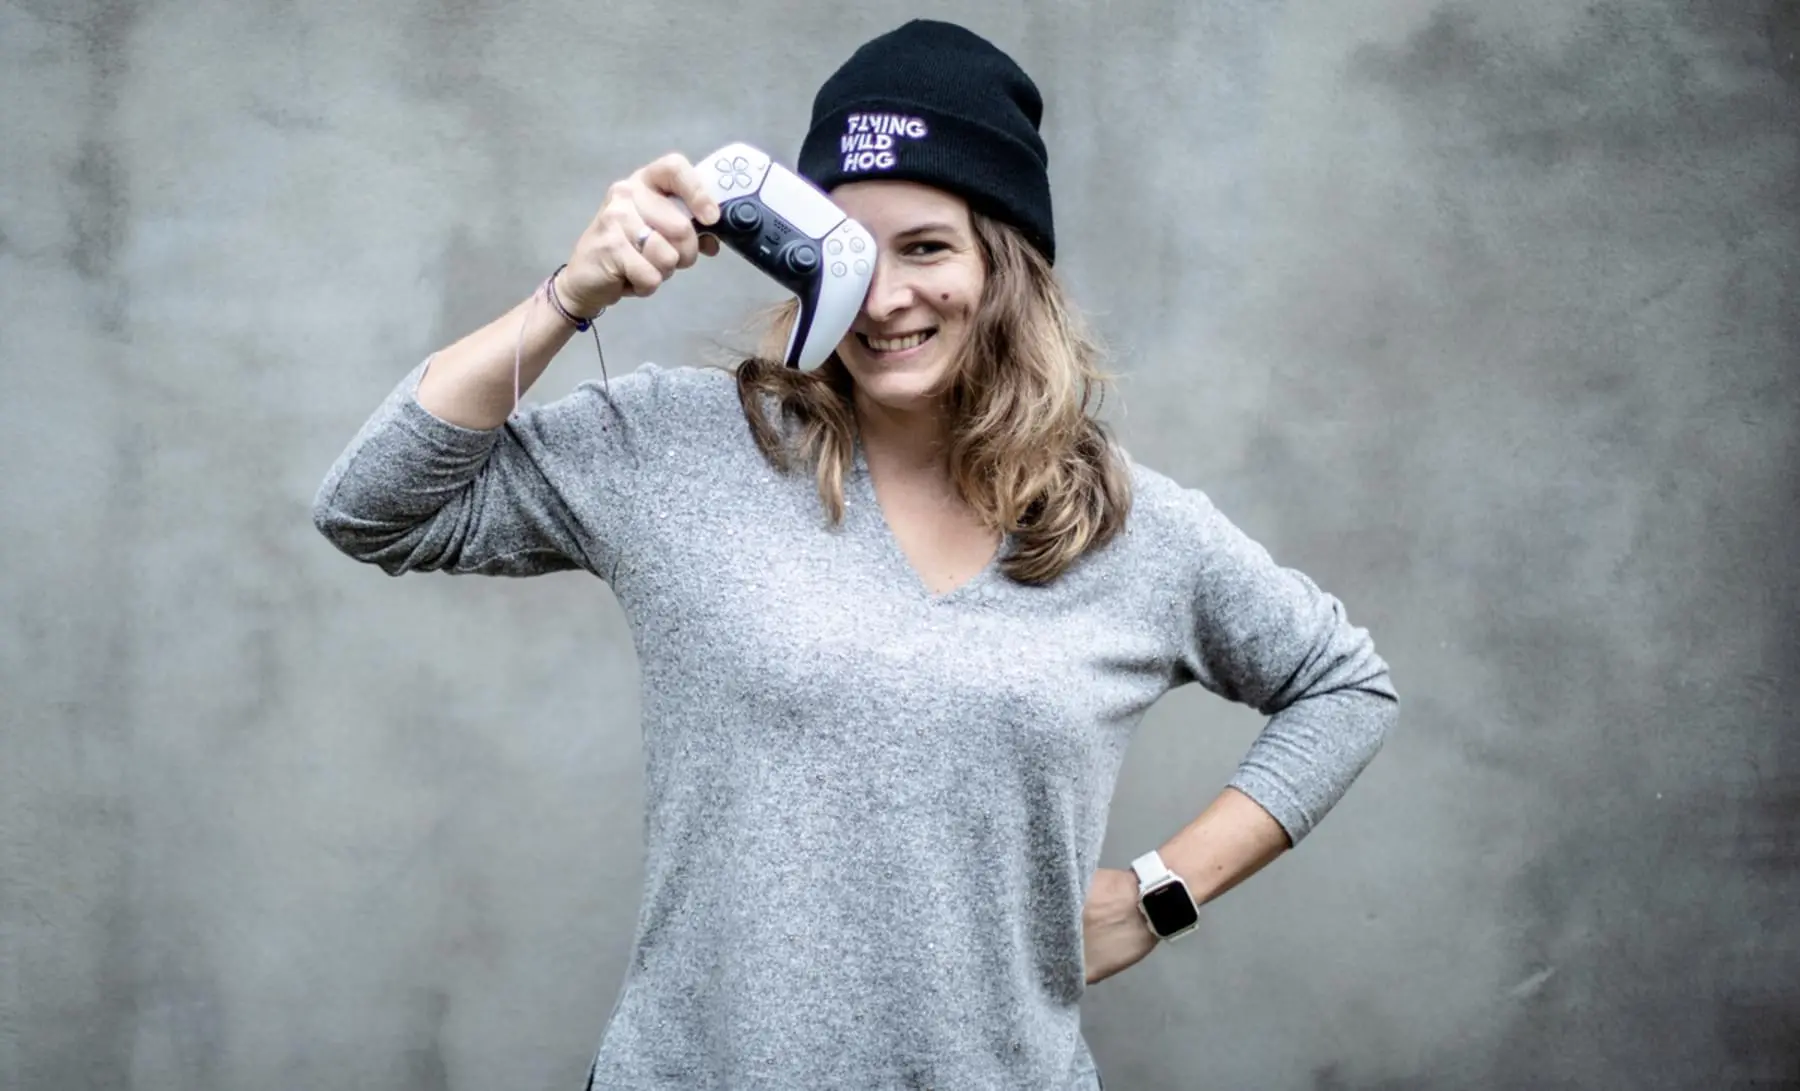
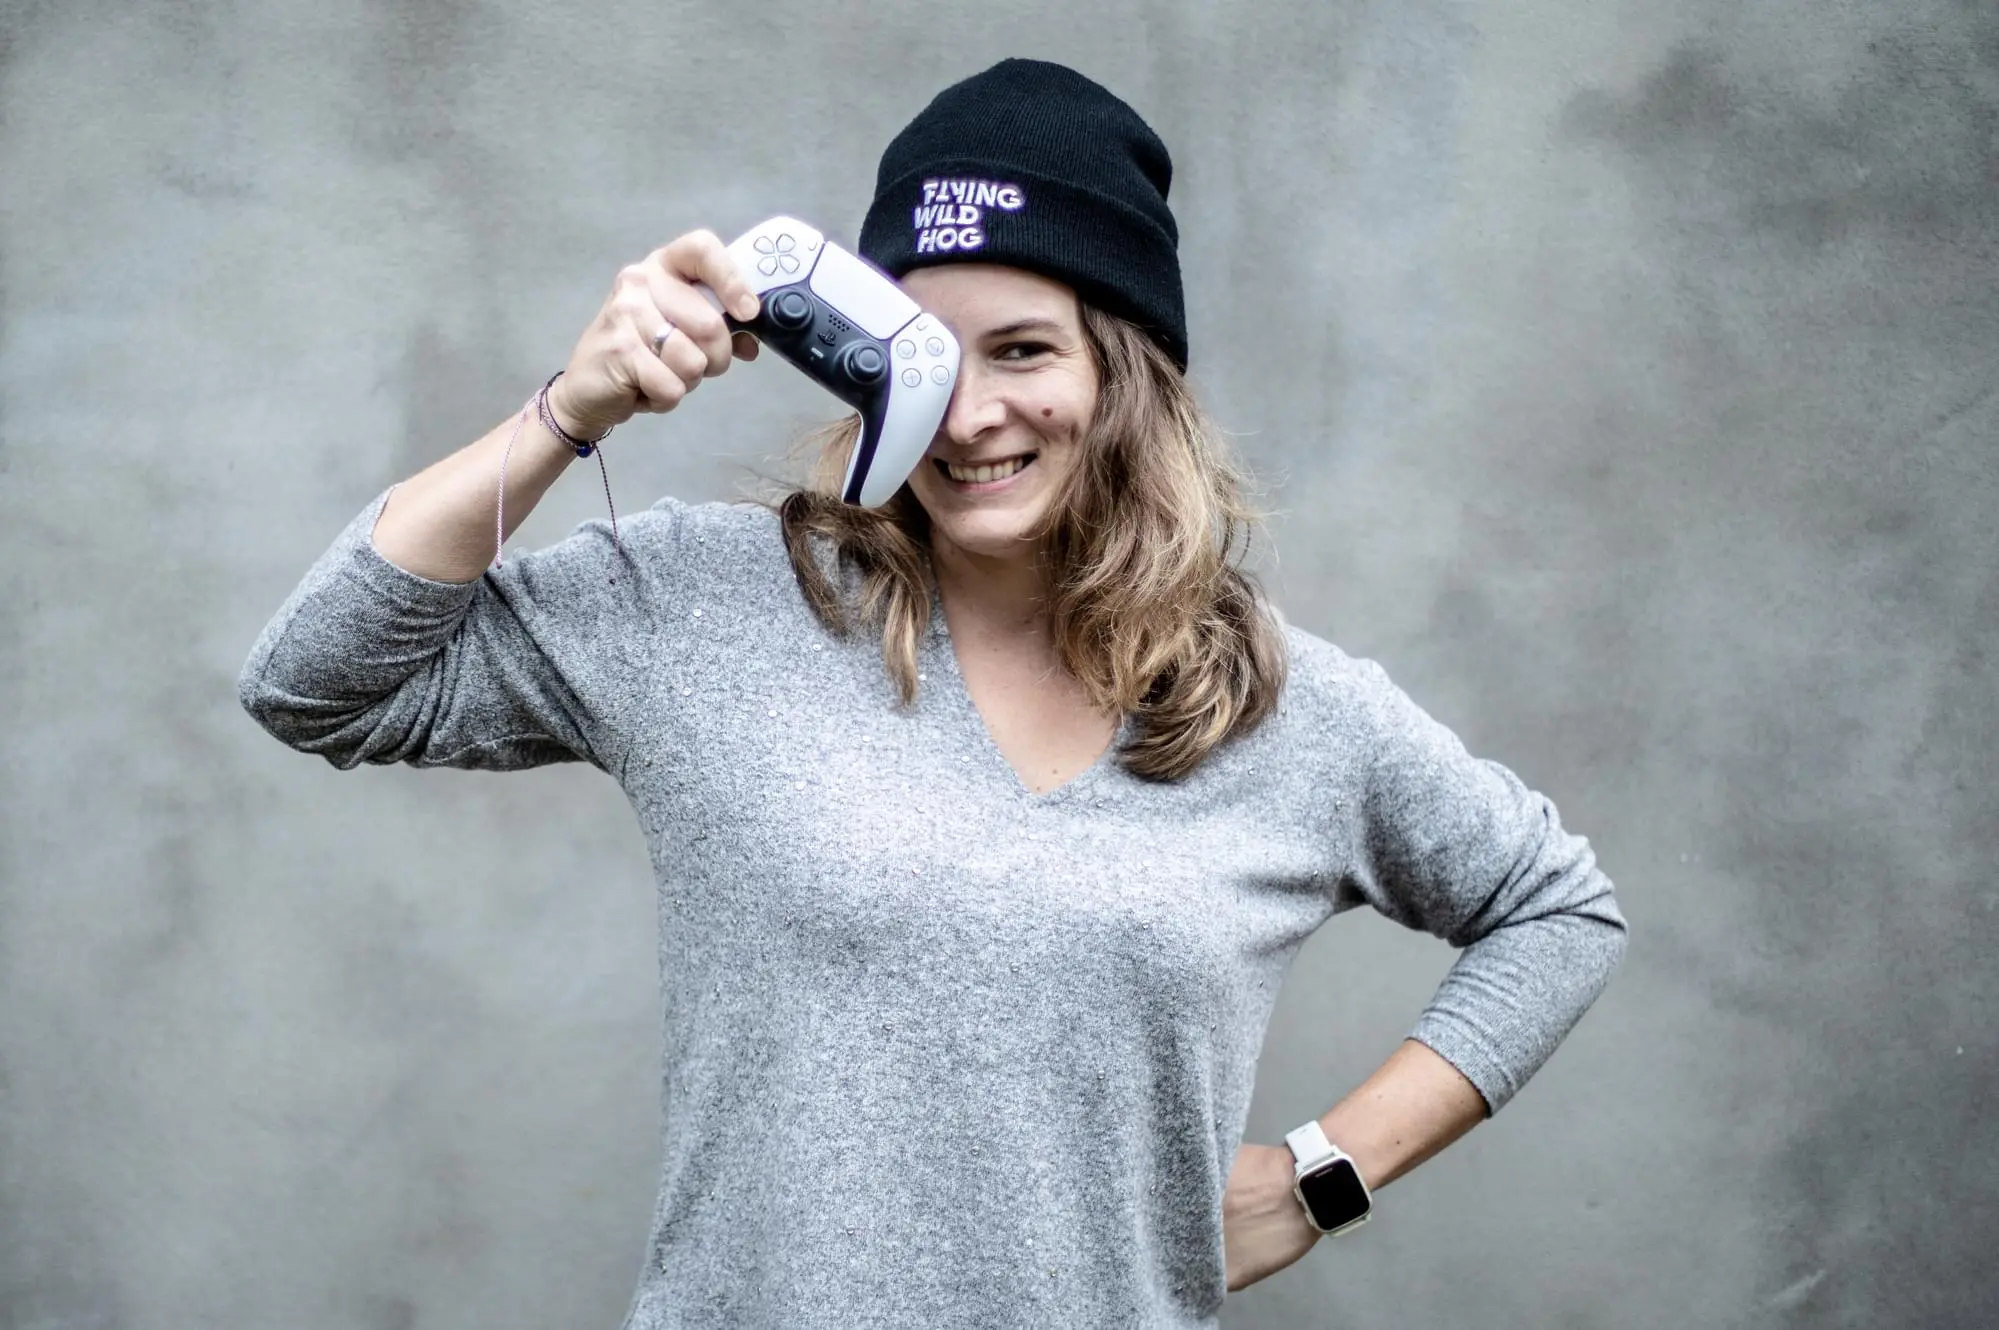
fix: switch main image from backgorund image to img

diff --git a/src/pages/HomePage.jsx b/src/pages/HomePage.jsx
@@ -1,6 +1,7 @@
 import Main from 'layout/Main/Main';
 import Box from 'layout/Box/Box';
 import Logo from 'layout/Logo/Logo';
+import MainImageBox from '../components/Boxes/MainImageBox/MainImageBox';
 import AboutBox from 'components/Boxes/AboutBox/AboutBox';
 import VideoGamesBox from 'components/Boxes/VideoGamesBox/VideoGamesBox';
 import WorkshopsBox from 'components/Boxes/WorkshopsBox/WorkshopsBox';
@@ -15,7 +16,9 @@ const HomePage = () => {
       <Box variant='logo'>
         <Logo />
       </Box>
-      <Box variant='image' id='hero'></Box>
+      <Box variant='image'>
+        <MainImageBox />
+      </Box>
       <Box variant='about'>
         <AboutBox />
       </Box>

diff --git a/src/components/Boxes/MainImageBox/MainImageBox.jsx b/src/components/Boxes/MainImageBox/MainImageBox.jsx
@@ -1,0 +1,17 @@
+import mainImageMobile from 'assets/main-photo/mobile/merry-main-280.webp';
+import mainImageTablet from 'assets/main-photo/mobile/merry-main-580.webp';
+import mainImageFallback from 'assets/main-photo/mobile/merry-main-580.jpg';
+
+const MainImageBox = () => {
+  return (
+    <img
+      srcSet={`${mainImageMobile} 1000w, ${mainImageTablet} 2000w`}
+      sizes='(max-width: 639px) 650px, 2000px'
+      src={mainImageFallback}
+      alt='Merry'
+      loading='lazy'
+    />
+  );
+};
+
+export default MainImageBox;

diff --git a/src/layout/Box/Box.jsx b/src/layout/Box/Box.jsx
@@ -1,7 +1,7 @@
 const variantMap = {
   def: 'flex flex-col items-center justify-center w-full px-2 py-8 text-center font-medium border-b-10 border-black space-y-5 bg-indigo-200 sm:p-4 sm:space-y-6',
   logo: '!p-0 !bg-gray-300 sm:-order-1',
-  image: '!p-0 h-[60vw] sm:h-[50vw] sm:col-span-2 sm:order-2',
+  image: '!p-0 sm:col-span-2 sm:order-2',
   about: 'px-6 tracking-wide sm:-order-1 sm:border-l-10',
   videoGames: '!block pt-8 px-0 py-0 sm:order-3 sm:col-span-2 sm:p-0 sm:pt-3',
   workshops: 'sm:order-5 sm:border-r-10',

diff --git a/src/index.css b/src/index.css
@@ -2,20 +2,6 @@
 @tailwind components;
 @tailwind utilities;
 
-#hero {
-    background-image: url('assets/main-photo/mobile/merry-main-280.webp');
-    background-position: 50% 50%;
-    background-size: cover;
-    background-repeat: no-repeat;
-}
-
-@media only screen and (min-width: 36.3em) {
-  #hero {
-    background-image: url('assets/main-photo/mobile/merry-main-580.webp');
-    background-position: 50% 0;
-  }
-}
-
 .active {
     text-decoration: underline;
     text-underline-offset: 4px;
